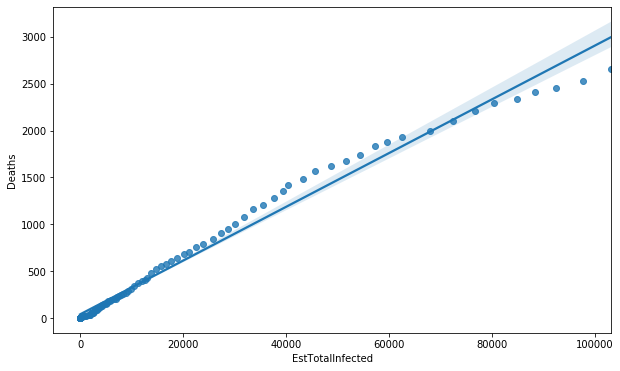
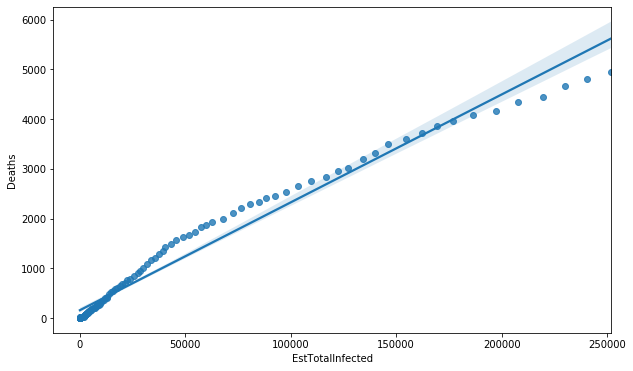
update

diff --git a/README.md b/README.md
@@ -11,7 +11,7 @@ https://github.com/CSSEGISandData/COVID-19.git
 
 #### Date and time
 
-    It is now Sun Jul 19 06:59:12 2020 GMT+2
+    It is now Mon Jul 20 07:07:57 2020 GMT+2
 
 
 ---
@@ -49,6 +49,8 @@ https://github.com/CSSEGISandData/COVID-19.git
 
 ---
 
+For the sake of brevity, the plots and model summaries for model 1 and 2 has been omitted
+
 ---
 ### Model 1
 #### Most naive
@@ -58,68 +60,6 @@ https://github.com/CSSEGISandData/COVID-19.git
 * No account for asymptomatic people
 * No adjustment from onset of symptoms to death
 * No account for delays in reporting deaths or confirmed cases
-
-
-![png](SA_cov_dr_files/SA_cov_dr_19_0.png)
-
-
-
-
-
-<table class="simpletable">
-<caption>OLS Regression Results</caption>
-<tr>
-  <th>Dep. Variable:</th>         <td>Deaths</td>      <th>  R-squared (uncentered):</th>      <td>   0.985</td> 
-</tr>
-<tr>
-  <th>Model:</th>                   <td>OLS</td>       <th>  Adj. R-squared (uncentered):</th> <td>   0.985</td> 
-</tr>
-<tr>
-  <th>Method:</th>             <td>Least Squares</td>  <th>  F-statistic:       </th>          <td>   8993.</td> 
-</tr>
-<tr>
-  <th>Date:</th>             <td>Sun, 19 Jul 2020</td> <th>  Prob (F-statistic):</th>          <td>2.05e-125</td>
-</tr>
-<tr>
-  <th>Time:</th>                 <td>06:59:14</td>     <th>  Log-Likelihood:    </th>          <td> -911.75</td> 
-</tr>
-<tr>
-  <th>No. Observations:</th>      <td>   136</td>      <th>  AIC:               </th>          <td>   1826.</td> 
-</tr>
-<tr>
-  <th>Df Residuals:</th>          <td>   135</td>      <th>  BIC:               </th>          <td>   1828.</td> 
-</tr>
-<tr>
-  <th>Df Model:</th>              <td>     1</td>      <th>                     </th>              <td> </td>    
-</tr>
-<tr>
-  <th>Covariance Type:</th>      <td>nonrobust</td>    <th>                     </th>              <td> </td>    
-</tr>
-</table>
-<table class="simpletable">
-<tr>
-      <td></td>         <th>coef</th>     <th>std err</th>      <th>t</th>      <th>P>|t|</th>  <th>[0.025</th>    <th>0.975]</th>  
-</tr>
-<tr>
-  <th>Confirmed</th> <td>    0.0158</td> <td>    0.000</td> <td>   94.831</td> <td> 0.000</td> <td>    0.015</td> <td>    0.016</td>
-</tr>
-</table>
-<table class="simpletable">
-<tr>
-  <th>Omnibus:</th>       <td>12.364</td> <th>  Durbin-Watson:     </th> <td>   0.019</td>
-</tr>
-<tr>
-  <th>Prob(Omnibus):</th> <td> 0.002</td> <th>  Jarque-Bera (JB):  </th> <td>  23.817</td>
-</tr>
-<tr>
-  <th>Skew:</th>          <td>-0.358</td> <th>  Prob(JB):          </th> <td>6.73e-06</td>
-</tr>
-<tr>
-  <th>Kurtosis:</th>      <td> 4.921</td> <th>  Cond. No.          </th> <td>    1.00</td>
-</tr>
-</table><br/><br/>Warnings:<br/>[1] Standard Errors assume that the covariance matrix of the errors is correctly specified.
-
-
 
     Using this very simple method we see a death rate of 1.58%
 
@@ -140,68 +80,6 @@ From: https://www.thelancet.com/journals/laninf/article/PIIS1473-3099(20)30243-7
 Using data on 24 deaths that occurred in mainland China and 165 recoveries outside of China, we estimated the mean duration from onset of symptoms to death to be 17·8 days (95% credible interval [CrI] 16·9–19·2) and to hospital discharge to be 24·7 days (22·9–28·1). In all laboratory confirmed and clinically diagnosed cases from mainland China (n=70 117), we estimated a crude case fatality ratio (adjusted for censoring) of 3·67% (95% CrI 3·56–3·80). However, after further adjusting for demography and under-ascertainment, we obtained a best estimate of the case fatality ratio in China of 1·38% (1·23–1·53), with substantially higher ratios in older age groups (0·32% [0·27–0·38] in those aged <60 years vs 6·4% [5·7–7·2] in those aged ≥60 years), up to 13·4% (11·2–15·9) in those aged 80 years or older. Estimates of case fatality ratio from international cases stratified by age were consistent with those from China (parametric estimate 1·4% [0·4–3·5] in those aged <60 years [n=360] and 4·5% [1·8–11·1] in those aged ≥60 years [n=151]). Our estimated overall infection fatality ratio for China was 0·66% (0·39–1·33), with an increasing profile with age. Similarly, estimates of the proportion of infected individuals likely to be hospitalised increased with age up to a maximum of 18·4% (11·0–37·6) in those aged 80 years or older.
 
     Using 18 days in the time adjustment
-
-
-
-![png](SA_cov_dr_files/SA_cov_dr_30_0.png)
-
-
-
-
-
-<table class="simpletable">
-<caption>OLS Regression Results</caption>
-<tr>
-  <th>Dep. Variable:</th>         <td>Deaths</td>      <th>  R-squared (uncentered):</th>      <td>   0.978</td>
-</tr>
-<tr>
-  <th>Model:</th>                   <td>OLS</td>       <th>  Adj. R-squared (uncentered):</th> <td>   0.978</td>
-</tr>
-<tr>
-  <th>Method:</th>             <td>Least Squares</td>  <th>  F-statistic:       </th>          <td>   5292.</td>
-</tr>
-<tr>
-  <th>Date:</th>             <td>Sun, 19 Jul 2020</td> <th>  Prob (F-statistic):</th>          <td>2.97e-99</td>
-</tr>
-<tr>
-  <th>Time:</th>                 <td>06:59:14</td>     <th>  Log-Likelihood:    </th>          <td> -821.89</td>
-</tr>
-<tr>
-  <th>No. Observations:</th>      <td>   118</td>      <th>  AIC:               </th>          <td>   1646.</td>
-</tr>
-<tr>
-  <th>Df Residuals:</th>          <td>   117</td>      <th>  BIC:               </th>          <td>   1649.</td>
-</tr>
-<tr>
-  <th>Df Model:</th>              <td>     1</td>      <th>                     </th>              <td> </td>   
-</tr>
-<tr>
-  <th>Covariance Type:</th>      <td>nonrobust</td>    <th>                     </th>              <td> </td>   
-</tr>
-</table>
-<table class="simpletable">
-<tr>
-      <td></td>         <th>coef</th>     <th>std err</th>      <th>t</th>      <th>P>|t|</th>  <th>[0.025</th>    <th>0.975]</th>  
-</tr>
-<tr>
-  <th>Confirmed</th> <td>    0.0381</td> <td>    0.001</td> <td>   72.746</td> <td> 0.000</td> <td>    0.037</td> <td>    0.039</td>
-</tr>
-</table>
-<table class="simpletable">
-<tr>
-  <th>Omnibus:</th>       <td>25.461</td> <th>  Durbin-Watson:     </th> <td>   0.019</td>
-</tr>
-<tr>
-  <th>Prob(Omnibus):</th> <td> 0.000</td> <th>  Jarque-Bera (JB):  </th> <td>  55.370</td>
-</tr>
-<tr>
-  <th>Skew:</th>          <td>-0.849</td> <th>  Prob(JB):          </th> <td>9.48e-13</td>
-</tr>
-<tr>
-  <th>Kurtosis:</th>      <td> 5.894</td> <th>  Cond. No.          </th> <td>    1.00</td>
-</tr>
-</table><br/><br/>Warnings:<br/>[1] Standard Errors assume that the covariance matrix of the errors is correctly specified.
-
 
 
     Adjusting for time we find a death rate of 3.81%
@@ -232,7 +110,7 @@ Adjusting for asymptomatic infected people is another difficulty.
 
 
 
-![png](SA_cov_dr_files/SA_cov_dr_39_0.png)
+![png](SA_cov_dr_files/SA_cov_dr_38_0.png)
 
 
 
@@ -250,10 +128,10 @@ Adjusting for asymptomatic infected people is another difficulty.
   <th>Method:</th>             <td>Least Squares</td>  <th>  F-statistic:       </th>          <td>   5292.</td>
 </tr>
 <tr>
-  <th>Date:</th>             <td>Sun, 19 Jul 2020</td> <th>  Prob (F-statistic):</th>          <td>2.98e-99</td>
+  <th>Date:</th>             <td>Mon, 20 Jul 2020</td> <th>  Prob (F-statistic):</th>          <td>2.98e-99</td>
 </tr>
 <tr>
-  <th>Time:</th>                 <td>06:59:15</td>     <th>  Log-Likelihood:    </th>          <td> -821.89</td>
+  <th>Time:</th>                 <td>07:07:59</td>     <th>  Log-Likelihood:    </th>          <td> -821.89</td>
 </tr>
 <tr>
   <th>No. Observations:</th>      <td>   118</td>      <th>  AIC:               </th>          <td>   1646.</td>
@@ -295,6 +173,11 @@ Adjusting for asymptomatic infected people is another difficulty.
 
     The death rate adjusting for time and asymtomatic cases is 2.29%
 
+
+### Look at residuals for model 3
+
+
+From the plot above, the death rate is lowering at about 50000 confirmed cases
 
 
 ![png](SA_cov_dr_files/SA_cov_dr_42_0.png)

diff --git a/SA_cov_dr.md b/SA_cov_dr.md
@@ -11,7 +11,7 @@ https://github.com/CSSEGISandData/COVID-19.git
 
 #### Date and time
 
-    It is now Sun Jul 19 06:59:12 2020 GMT+2
+    It is now Mon Jul 20 07:07:57 2020 GMT+2
 
 
 ---
@@ -49,6 +49,8 @@ https://github.com/CSSEGISandData/COVID-19.git
 
 ---
 
+For the sake of brevity, the plots and model summaries for model 1 and 2 has been omitted
+
 ---
 ### Model 1
 #### Most naive
@@ -58,68 +60,6 @@ https://github.com/CSSEGISandData/COVID-19.git
 * No account for asymptomatic people
 * No adjustment from onset of symptoms to death
 * No account for delays in reporting deaths or confirmed cases
-
-
-![png](SA_cov_dr_files/SA_cov_dr_19_0.png)
-
-
-
-
-
-<table class="simpletable">
-<caption>OLS Regression Results</caption>
-<tr>
-  <th>Dep. Variable:</th>         <td>Deaths</td>      <th>  R-squared (uncentered):</th>      <td>   0.985</td> 
-</tr>
-<tr>
-  <th>Model:</th>                   <td>OLS</td>       <th>  Adj. R-squared (uncentered):</th> <td>   0.985</td> 
-</tr>
-<tr>
-  <th>Method:</th>             <td>Least Squares</td>  <th>  F-statistic:       </th>          <td>   8993.</td> 
-</tr>
-<tr>
-  <th>Date:</th>             <td>Sun, 19 Jul 2020</td> <th>  Prob (F-statistic):</th>          <td>2.05e-125</td>
-</tr>
-<tr>
-  <th>Time:</th>                 <td>06:59:14</td>     <th>  Log-Likelihood:    </th>          <td> -911.75</td> 
-</tr>
-<tr>
-  <th>No. Observations:</th>      <td>   136</td>      <th>  AIC:               </th>          <td>   1826.</td> 
-</tr>
-<tr>
-  <th>Df Residuals:</th>          <td>   135</td>      <th>  BIC:               </th>          <td>   1828.</td> 
-</tr>
-<tr>
-  <th>Df Model:</th>              <td>     1</td>      <th>                     </th>              <td> </td>    
-</tr>
-<tr>
-  <th>Covariance Type:</th>      <td>nonrobust</td>    <th>                     </th>              <td> </td>    
-</tr>
-</table>
-<table class="simpletable">
-<tr>
-      <td></td>         <th>coef</th>     <th>std err</th>      <th>t</th>      <th>P>|t|</th>  <th>[0.025</th>    <th>0.975]</th>  
-</tr>
-<tr>
-  <th>Confirmed</th> <td>    0.0158</td> <td>    0.000</td> <td>   94.831</td> <td> 0.000</td> <td>    0.015</td> <td>    0.016</td>
-</tr>
-</table>
-<table class="simpletable">
-<tr>
-  <th>Omnibus:</th>       <td>12.364</td> <th>  Durbin-Watson:     </th> <td>   0.019</td>
-</tr>
-<tr>
-  <th>Prob(Omnibus):</th> <td> 0.002</td> <th>  Jarque-Bera (JB):  </th> <td>  23.817</td>
-</tr>
-<tr>
-  <th>Skew:</th>          <td>-0.358</td> <th>  Prob(JB):          </th> <td>6.73e-06</td>
-</tr>
-<tr>
-  <th>Kurtosis:</th>      <td> 4.921</td> <th>  Cond. No.          </th> <td>    1.00</td>
-</tr>
-</table><br/><br/>Warnings:<br/>[1] Standard Errors assume that the covariance matrix of the errors is correctly specified.
-
-
 
     Using this very simple method we see a death rate of 1.58%
 
@@ -140,68 +80,6 @@ From: https://www.thelancet.com/journals/laninf/article/PIIS1473-3099(20)30243-7
 Using data on 24 deaths that occurred in mainland China and 165 recoveries outside of China, we estimated the mean duration from onset of symptoms to death to be 17·8 days (95% credible interval [CrI] 16·9–19·2) and to hospital discharge to be 24·7 days (22·9–28·1). In all laboratory confirmed and clinically diagnosed cases from mainland China (n=70 117), we estimated a crude case fatality ratio (adjusted for censoring) of 3·67% (95% CrI 3·56–3·80). However, after further adjusting for demography and under-ascertainment, we obtained a best estimate of the case fatality ratio in China of 1·38% (1·23–1·53), with substantially higher ratios in older age groups (0·32% [0·27–0·38] in those aged <60 years vs 6·4% [5·7–7·2] in those aged ≥60 years), up to 13·4% (11·2–15·9) in those aged 80 years or older. Estimates of case fatality ratio from international cases stratified by age were consistent with those from China (parametric estimate 1·4% [0·4–3·5] in those aged <60 years [n=360] and 4·5% [1·8–11·1] in those aged ≥60 years [n=151]). Our estimated overall infection fatality ratio for China was 0·66% (0·39–1·33), with an increasing profile with age. Similarly, estimates of the proportion of infected individuals likely to be hospitalised increased with age up to a maximum of 18·4% (11·0–37·6) in those aged 80 years or older.
 
     Using 18 days in the time adjustment
-
-
-
-![png](SA_cov_dr_files/SA_cov_dr_30_0.png)
-
-
-
-
-
-<table class="simpletable">
-<caption>OLS Regression Results</caption>
-<tr>
-  <th>Dep. Variable:</th>         <td>Deaths</td>      <th>  R-squared (uncentered):</th>      <td>   0.978</td>
-</tr>
-<tr>
-  <th>Model:</th>                   <td>OLS</td>       <th>  Adj. R-squared (uncentered):</th> <td>   0.978</td>
-</tr>
-<tr>
-  <th>Method:</th>             <td>Least Squares</td>  <th>  F-statistic:       </th>          <td>   5292.</td>
-</tr>
-<tr>
-  <th>Date:</th>             <td>Sun, 19 Jul 2020</td> <th>  Prob (F-statistic):</th>          <td>2.97e-99</td>
-</tr>
-<tr>
-  <th>Time:</th>                 <td>06:59:14</td>     <th>  Log-Likelihood:    </th>          <td> -821.89</td>
-</tr>
-<tr>
-  <th>No. Observations:</th>      <td>   118</td>      <th>  AIC:               </th>          <td>   1646.</td>
-</tr>
-<tr>
-  <th>Df Residuals:</th>          <td>   117</td>      <th>  BIC:               </th>          <td>   1649.</td>
-</tr>
-<tr>
-  <th>Df Model:</th>              <td>     1</td>      <th>                     </th>              <td> </td>   
-</tr>
-<tr>
-  <th>Covariance Type:</th>      <td>nonrobust</td>    <th>                     </th>              <td> </td>   
-</tr>
-</table>
-<table class="simpletable">
-<tr>
-      <td></td>         <th>coef</th>     <th>std err</th>      <th>t</th>      <th>P>|t|</th>  <th>[0.025</th>    <th>0.975]</th>  
-</tr>
-<tr>
-  <th>Confirmed</th> <td>    0.0381</td> <td>    0.001</td> <td>   72.746</td> <td> 0.000</td> <td>    0.037</td> <td>    0.039</td>
-</tr>
-</table>
-<table class="simpletable">
-<tr>
-  <th>Omnibus:</th>       <td>25.461</td> <th>  Durbin-Watson:     </th> <td>   0.019</td>
-</tr>
-<tr>
-  <th>Prob(Omnibus):</th> <td> 0.000</td> <th>  Jarque-Bera (JB):  </th> <td>  55.370</td>
-</tr>
-<tr>
-  <th>Skew:</th>          <td>-0.849</td> <th>  Prob(JB):          </th> <td>9.48e-13</td>
-</tr>
-<tr>
-  <th>Kurtosis:</th>      <td> 5.894</td> <th>  Cond. No.          </th> <td>    1.00</td>
-</tr>
-</table><br/><br/>Warnings:<br/>[1] Standard Errors assume that the covariance matrix of the errors is correctly specified.
-
 
 
     Adjusting for time we find a death rate of 3.81%
@@ -232,7 +110,7 @@ Adjusting for asymptomatic infected people is another difficulty.
 
 
 
-![png](SA_cov_dr_files/SA_cov_dr_39_0.png)
+![png](SA_cov_dr_files/SA_cov_dr_38_0.png)
 
 
 
@@ -250,10 +128,10 @@ Adjusting for asymptomatic infected people is another difficulty.
   <th>Method:</th>             <td>Least Squares</td>  <th>  F-statistic:       </th>          <td>   5292.</td>
 </tr>
 <tr>
-  <th>Date:</th>             <td>Sun, 19 Jul 2020</td> <th>  Prob (F-statistic):</th>          <td>2.98e-99</td>
+  <th>Date:</th>             <td>Mon, 20 Jul 2020</td> <th>  Prob (F-statistic):</th>          <td>2.98e-99</td>
 </tr>
 <tr>
-  <th>Time:</th>                 <td>06:59:15</td>     <th>  Log-Likelihood:    </th>          <td> -821.89</td>
+  <th>Time:</th>                 <td>07:07:59</td>     <th>  Log-Likelihood:    </th>          <td> -821.89</td>
 </tr>
 <tr>
   <th>No. Observations:</th>      <td>   118</td>      <th>  AIC:               </th>          <td>   1646.</td>
@@ -295,6 +173,11 @@ Adjusting for asymptomatic infected people is another difficulty.
 
     The death rate adjusting for time and asymtomatic cases is 2.29%
 
+
+### Look at residuals for model 3
+
+
+From the plot above, the death rate is lowering at about 50000 confirmed cases
 
 
 ![png](SA_cov_dr_files/SA_cov_dr_42_0.png)
